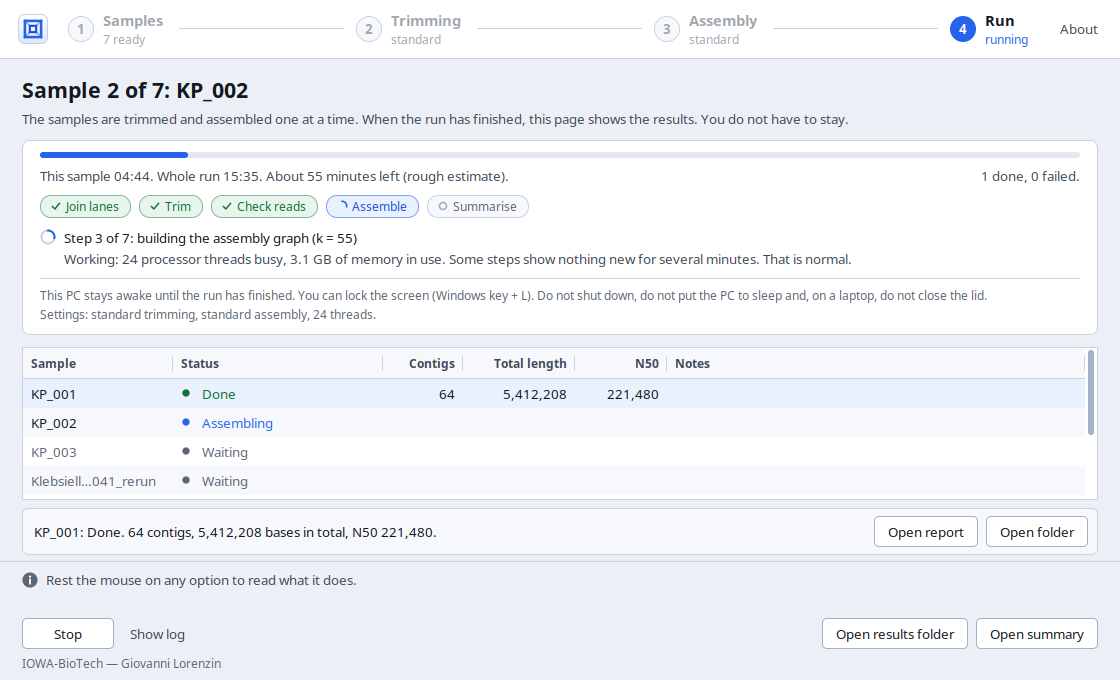
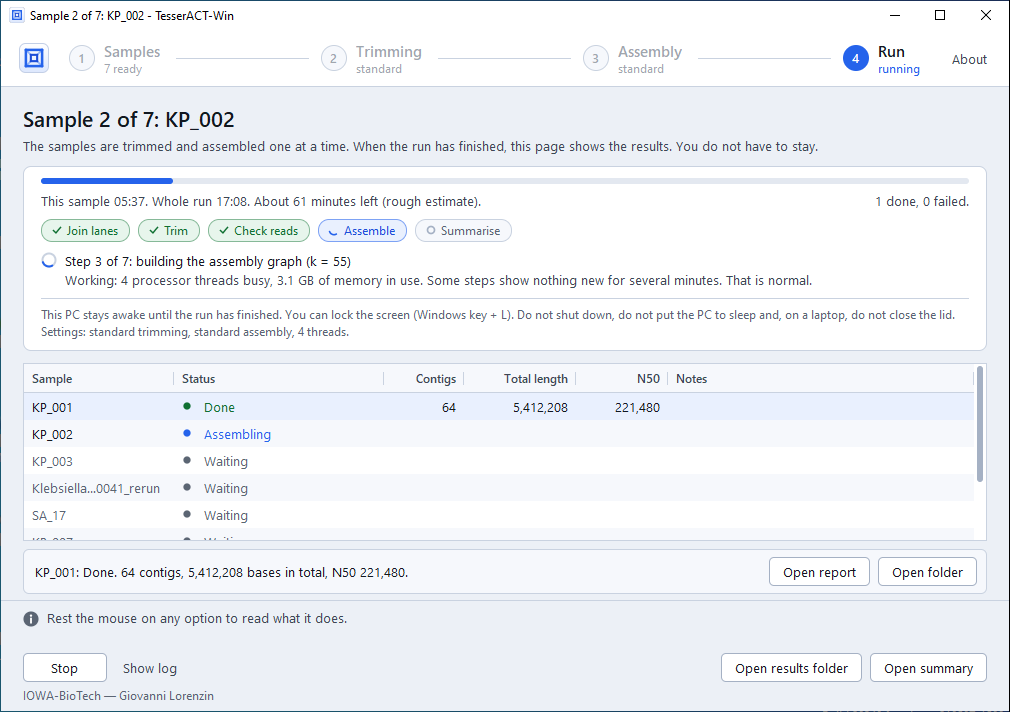
README: screenshots taken on Windows by the build

diff --git a/README.md b/README.md
@@ -52,7 +52,7 @@ is needed. The folder can live anywhere, including a USB stick.
 
 ## Four steps
 
-*The screenshots use made-up sample names.*
+*Screenshots taken on Windows by the automated build, with made-up sample names.*
 
 ### 1. Samples
 
